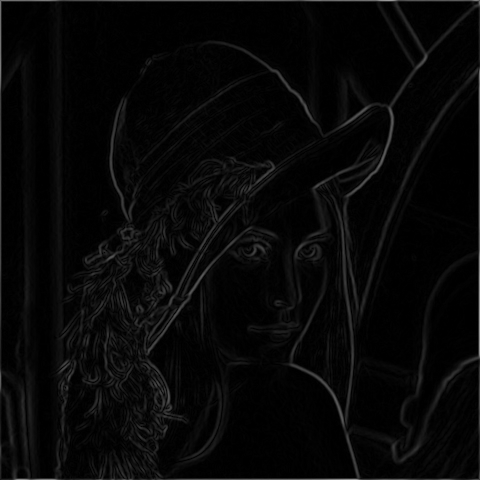
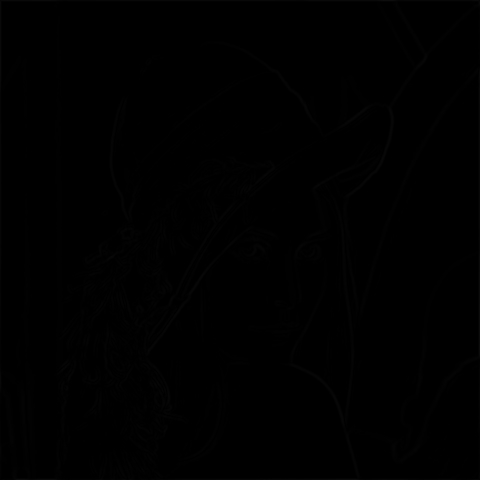
update Scharr

diff --git a/source/Scharr.cpp b/source/Scharr.cpp
@@ -2,7 +2,6 @@
 
 #include "Scharr.hpp"
 #include "SepFilter2D.hpp"
-#include <iostream>
 #include <cmath>
 #include <vector>
 
@@ -93,60 +92,6 @@ namespace qlm
 		return SepFilter2D<ImageFormat::GRAY, in_t, out_t>(in, ker, border_mode);
 	}
 
-	// Scharr operation
-	template<pixel_t in_t, pixel_t out_t>
-	ScharrDerivatives<in_t, out_t> Scharr(const Image<ImageFormat::GRAY, in_t>& in, const BorderMode<ImageFormat::GRAY, in_t>& border_mode)
-	{
-		const in_t min_value = std::numeric_limits<in_t>::lowest();
-		const in_t max_value = std::numeric_limits<in_t>::max();
-
-		const wider_t<in_t> max_mag = std::sqrt(std::pow(max_value, 2) + std::pow(max_value, 2));
-
-		ScharrDerivatives<in_t, out_t> out{ in.width, in.height };
-
-		// x derivative
-		out.scharr_x = std::move(ScharrX<in_t, out_t>(in, border_mode));
-
-		// y derivative
-		out.scharr_y = std::move(ScharrY<in_t, out_t>(in, border_mode));
-
-		// scharr x y as in_t(uint8_t)
-		auto scharr_x = ConvertScharrDepth(out.scharr_x);
-		auto scharr_y = ConvertScharrDepth(out.scharr_y);
-
-		Pixel<ImageFormat::GRAY, in_t> x_pix;
-		Pixel<ImageFormat::GRAY, in_t> y_pix;
-		Pixel<ImageFormat::GRAY, in_t> out_pix;
-		// magnitude
-		float v{ 0 }, a{ 0 }, angle{ 0 };
-		for (int i = 0; i < in.height * in.width; i++)
-		{
-			// input X, Y pixels
-			x_pix = scharr_x.GetPixel(i);
-			y_pix = scharr_y.GetPixel(i);
-
-			// calculate the magnitude
-			v = std::sqrt(std::pow(x_pix.v, 2) + std::pow(y_pix.v, 2));
-			a = std::sqrt(std::pow(x_pix.a, 2) + std::pow(y_pix.a, 2));
-
-			// normalize value
-			v = (v - min_value) / (float)(max_mag - min_value);
-			a = (a - min_value) / (float)(max_mag - min_value);
-
-			// denormalize
-			out_pix.v = static_cast<in_t>(v * (max_value - min_value) + min_value);
-			out_pix.a = static_cast<in_t>(a * (max_value - min_value) + min_value);
-			out.magnitude.SetPixel(i, out_pix);
-
-			// calculate the angle
-			angle = std::atan2(out.scharr_y.GetPixel(i).v, out.scharr_x.GetPixel(i).v) * 180.0f / M_PI;
-			out.angle.SetPixel(i, Pixel<ImageFormat::GRAY, float>(angle));
-		}
-
-		return out;
-	}
-}
-
 // Explicit instantiation for  uint8_t, int16_t
 template qlm::Image<qlm::ImageFormat::GRAY, int16_t>
 qlm::ScharrX<uint8_t, int16_t>(const qlm::Image<qlm::ImageFormat::GRAY, uint8_t>&,
@@ -156,10 +101,4 @@ qlm::ScharrX<uint8_t, int16_t>(const qlm::Image<qlm::ImageFormat::GRAY, uint8_t>
 template qlm::Image<qlm::ImageFormat::GRAY, int16_t>
 qlm::ScharrY<uint8_t, int16_t>(const qlm::Image<qlm::ImageFormat::GRAY, uint8_t>&,
 	const BorderMode<ImageFormat::GRAY, uint8_t>&);
-
-
-// Explicit instantiation for  uint8_t, int16_t
-template qlm::ScharrDerivatives<uint8_t, int16_t>
-   qlm::Scharr<uint8_t, int16_t>(
-	const qlm::Image<qlm::ImageFormat::GRAY, uint8_t>&,
-	const BorderMode<qlm::ImageFormat::GRAY, uint8_t>&);
+}	

diff --git a/include/Scharr.hpp b/include/Scharr.hpp
@@ -4,21 +4,6 @@
 
 namespace qlm
 {
-	template<pixel_t mag = uint8_t, pixel_t drv = int16_t>
-	struct ScharrDerivatives
-	{
-	public:
-		Image<ImageFormat::GRAY, drv> scharr_x;
-		Image<ImageFormat::GRAY, drv> scharr_y;
-		Image<ImageFormat::GRAY, mag> magnitude;
-		Image<ImageFormat::GRAY, float> angle;
-	public:
-		ScharrDerivatives() = default;
-		ScharrDerivatives(int width, int height) : scharr_x(width, height), scharr_y(width, height), magnitude(width, height), angle(width, height)
-		{}
-
-	};
-
 	// generate coefficients for Scharr X
 	SepKernel GetScharrXKernel();
 
@@ -35,13 +20,6 @@ namespace qlm
 	// Scharr Y operation
 	template<pixel_t in_t, pixel_t out_t = int16_t>
 	Image<ImageFormat::GRAY, out_t> ScharrY(
-		const Image<ImageFormat::GRAY, in_t>& in,
-		const BorderMode<ImageFormat::GRAY, in_t>& border_mode = BorderMode<ImageFormat::GRAY, in_t>{}
-	);
-
-	// Scharr
-	template<pixel_t in_t, pixel_t out_t = int16_t>
-	ScharrDerivatives<in_t, out_t> Scharr(
 		const Image<ImageFormat::GRAY, in_t>& in,
 		const BorderMode<ImageFormat::GRAY, in_t>& border_mode = BorderMode<ImageFormat::GRAY, in_t>{}
 	);

diff --git a/tests/include/test_common.hpp b/tests/include/test_common.hpp
@@ -113,6 +113,8 @@ namespace test
         // check the dimensions
         EXPECT_EQ(in1.width, in2.width);
         EXPECT_EQ(in1.height, in2.height);
+
+        bool is_correct = true;
        
         // check the pixels
         for (int y = 0; y < in1.height; y++)
@@ -120,9 +122,21 @@ namespace test
             for (int x = 0; x < in1.width; x++)
             {
                 const bool res = ComparePixels(in1.GetPixel(x, y), in2.GetPixel(x, y), threshold);
-                EXPECT_EQ(res, true);
+                if (!res)
+                {
+                    is_correct = false;
+                    std::cout << "Pixel mismatch at (" << x << ", " << y << ")" << ANSI_TXT_DFT << std::endl;
+                    break;
+                }
+            }
+
+            if (!is_correct)
+            {
+                break;
             }
         }
+
+        EXPECT_EQ(is_correct, true);
     }
 
     template <qlm::ImageFormat frmt, typename T>

diff --git a/tests/source/filters/Test_Scharr.cpp b/tests/source/filters/Test_Scharr.cpp
@@ -19,19 +19,24 @@ TEST(Test_shakhbat_cv, Scharr)
 	auto gray = qlm::ColorConvert<qlm::ImageFormat::RGB, uint8_t, qlm::ImageFormat::GRAY, uint8_t>(in);
 
 	t.Start();
-	auto out = qlm::Scharr<uint8_t, int16_t>(gray);
+	auto out_x = qlm::ScharrX<uint8_t, int16_t>(gray);
+    auto out_y= qlm::ScharrY<uint8_t, int16_t>(gray);
 	t.End();
 
+	// calculate magnitude
+    auto mag = qlm::Magnitude(out_x, out_y, true);
+
 	// S16 to U8
-	auto x = qlm::ConvertScharrDepth(out.scharr_x);
-	auto y = qlm::ConvertScharrDepth(out.scharr_y);
+	auto x = qlm::ConvertScharrDepth(out_x);
+	auto y = qlm::ConvertScharrDepth(out_y);
+    auto m = qlm::ConvertBitDepth<qlm::ImageFormat::GRAY, uint16_t, uint8_t>(mag);
 
 	test::PrintTime(t);
 
 	// reread output image
 	x = test::ReReadImage(x);
 	y = test::ReReadImage(y);
-	auto m = test::ReReadImage(out.magnitude);
+	m = test::ReReadImage(m);
 
 	// read reference image
 	qlm::Image<qlm::ImageFormat::GRAY, uint8_t> ref;

diff --git a/source/ConvertBitDepth.cpp b/source/ConvertBitDepth.cpp
@@ -121,7 +121,6 @@ template qlm::Image<qlm::ImageFormat::RGB, uint8_t>
 qlm::ConvertBitDepth<qlm::ImageFormat::RGB, int16_t, uint8_t>
 (const qlm::Image<qlm::ImageFormat::RGB, int16_t>&);
 
-
 // Explicit instantiation for GRAY, uint8_t, int16_t
 template qlm::Pixel<qlm::ImageFormat::GRAY, int16_t>
 qlm::ConvertBitDepth<qlm::ImageFormat::GRAY, uint8_t, int16_t>
@@ -139,3 +138,8 @@ qlm::ConvertBitDepth<qlm::ImageFormat::RGB, uint8_t, int16_t>
 template qlm::Pixel<qlm::ImageFormat::RGB, uint8_t>
 qlm::ConvertBitDepth<qlm::ImageFormat::RGB, int16_t, uint8_t>
 (const qlm::Pixel<qlm::ImageFormat::RGB, int16_t>&);
+
+// Explicit instantiation for GRAY, uint16_t, uint8_t
+template qlm::Image<qlm::ImageFormat::GRAY, uint8_t>
+qlm::ConvertBitDepth<qlm::ImageFormat::GRAY, uint16_t, uint8_t>
+	(const qlm::Image<qlm::ImageFormat::GRAY, uint16_t>&);

diff --git a/doc/Functions/Filters/Scharr/README.md b/doc/Functions/Filters/Scharr/README.md
@@ -69,29 +69,6 @@ The function returns an image of type `Image<ImageFormat::GRAY, out_t>`.
 
 ### Return Value
 The function returns an image of type `Image<ImageFormat::GRAY, out_t>`.
-### `Scharr` Function
- Performs Scharr derivative on the input image. input image must be in GRAY format
- The return data type is `ScharrDerivatives`
-
-```c++
-   template<pixel_t in_t, pixel_t out_t = int16_t>
-	ScharrDerivatives<in_t, out_t> Scharr(
-		const Image<ImageFormat::GRAY, in_t>& in,
-		const BorderMode<ImageFormat::GRAY, in_t>& border_mode = BorderMode<ImageFormat::GRAY, in_t>{}
-	);
-```
-### Parameters
-
-| Name           | Type           | Description                                                                                  |
-|----------------|----------------|----------------------------------------------------------------------------------------------|
-| `in_t`         | `pixel_t`      | The data type of the input image.                                                            |
-| `out_t`        | `pixel_t`      | The data type of the output image.                                                           |
-| `in`           | `Image`        | The input image<GRAY, in_t>.                                                                 |
-| `border_mode`  | `BorderMode`   | The pixel extrapolation method.                                                              |
-
-### Return Value
-The function returns a structure of type `ScharrDerivatives<in_t, out_t>`.
-
 
 ### `ConvertScharrDepth` Function
  Change Bit Depth of scharr from S16 to U8
@@ -114,6 +91,7 @@ The function returns an image of type `Image<ImageFormat::GRAY, uint8_t>`.
 ```c++
     qlm::Timer<qlm::msec> t{};
 	std::string file_name = "input.jpg";
+
 	// load the image
 	qlm::Image<qlm::ImageFormat::RGB, uint8_t> in;
 	if (!in.LoadFromFile(file_name))
@@ -121,6 +99,7 @@ The function returns an image of type `Image<ImageFormat::GRAY, uint8_t>`.
 		std::cout << "Failed to read the image\n";
 		return -1;
 	}
+
 	// check alpha component
 	bool alpha{ true };
 	if (in.NumerOfChannels() == 3)
@@ -128,16 +107,22 @@ The function returns an image of type `Image<ImageFormat::GRAY, uint8_t>`.
 
 	// RGB to GRAY
 	auto gray = qlm::ColorConvert<qlm::ImageFormat::RGB, uint8_t, qlm::ImageFormat::GRAY, uint8_t>(in);
+
 	// do the operation
 	t.Start();
-	auto out = qlm::Scharr<uint8_t, int16_t>(gray);
+	auto out_x = qlm::ScharrX<uint8_t, int16_t>(gray);
+    auto out_y= qlm::ScharrY<uint8_t, int16_t>(gray);
 	t.End();
 
 	std::cout <<"Time = " << t.ElapsedString() << "\n";
 
+    // calculate magnitude
+    auto mag = qlm::Magnitude(out_x, out_y, true);
+
 	// S16 to U8
-	auto x = qlm::ConvertScharrDepth(out.scharr_x);
-	auto y = qlm::ConvertScharrDepth(out.scharr_y);
+	auto x = qlm::ConvertScharrDepth(out_x);
+	auto y = qlm::ConvertScharrDepth(out_y);
+    auto out = qlm::ConvertBitDepth<qlm::ImageFormat::GRAY, uint16_t, uint8_t>(mag);
 
 	if (!x.SaveToFile("resultx.jpg", alpha))
 	{
@@ -149,7 +134,7 @@ The function returns an image of type `Image<ImageFormat::GRAY, uint8_t>`.
 		std::cout << "Failed to write \n";
 	}
 
-	if (!out.magnitude.SaveToFile("result.jpg", alpha))
+	if (!out.SaveToFile("result.jpg", alpha))
 	{
 		std::cout << "Failed to write \n";
 	}
@@ -163,3 +148,5 @@ The function returns an image of type `Image<ImageFormat::GRAY, uint8_t>`.
 ![Input Image](resulty.jpg)
 ### The output
 ![Input Image](result.jpg)
+
+Time = 13 ms
